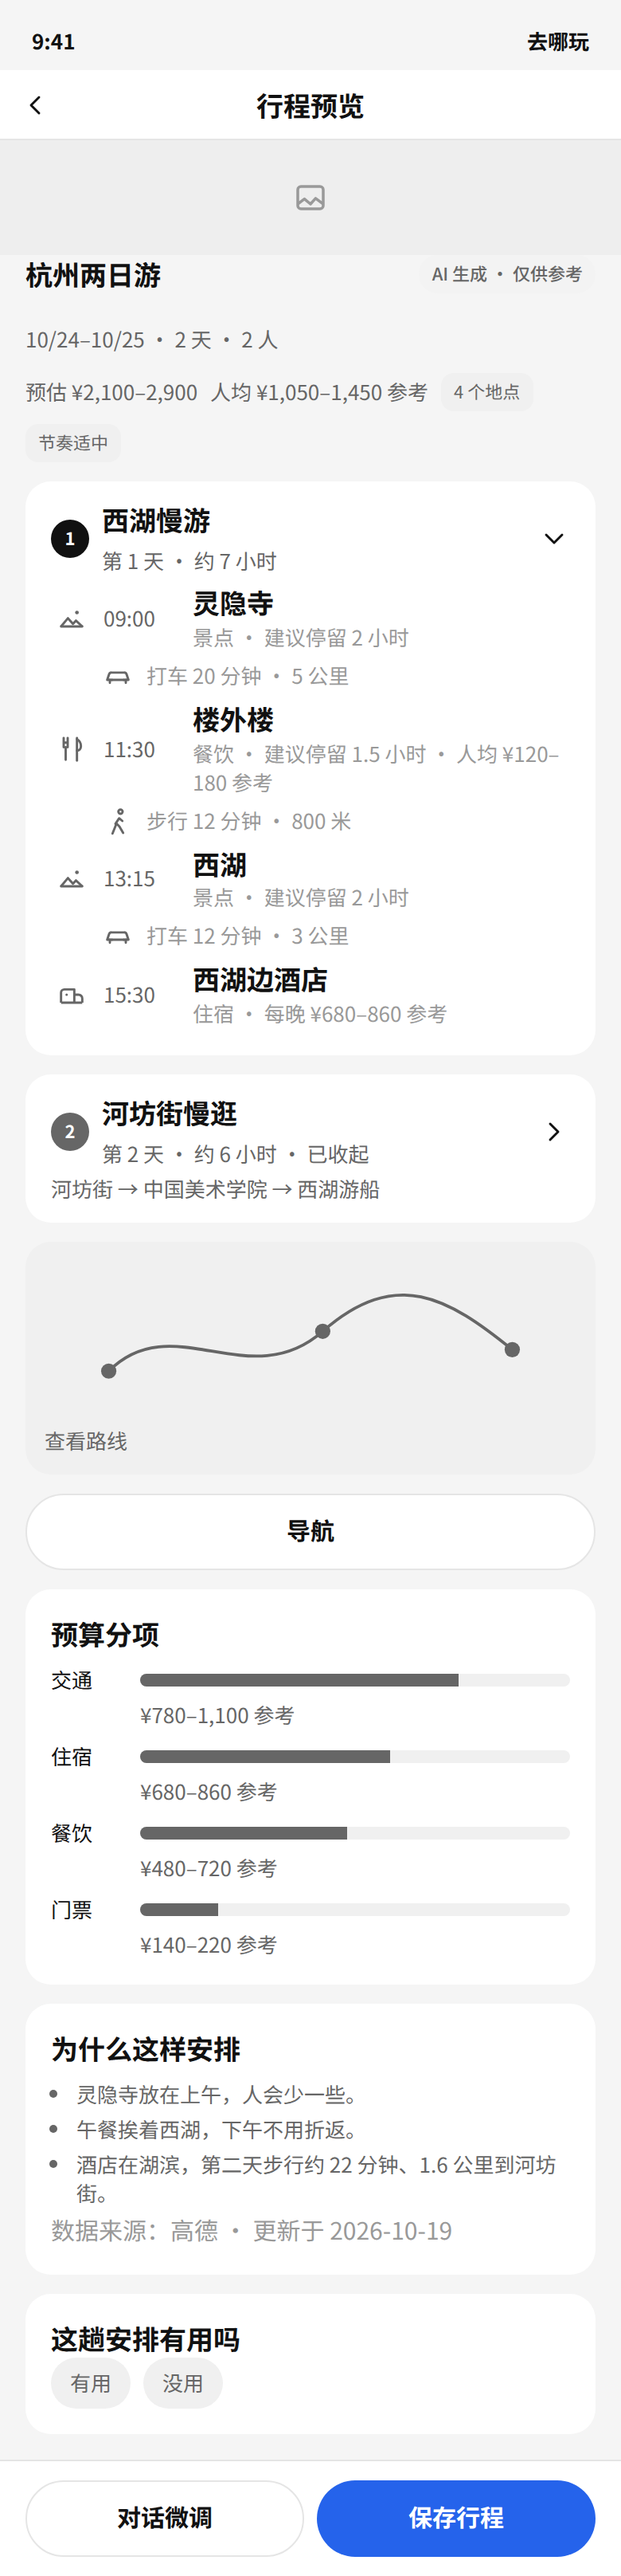
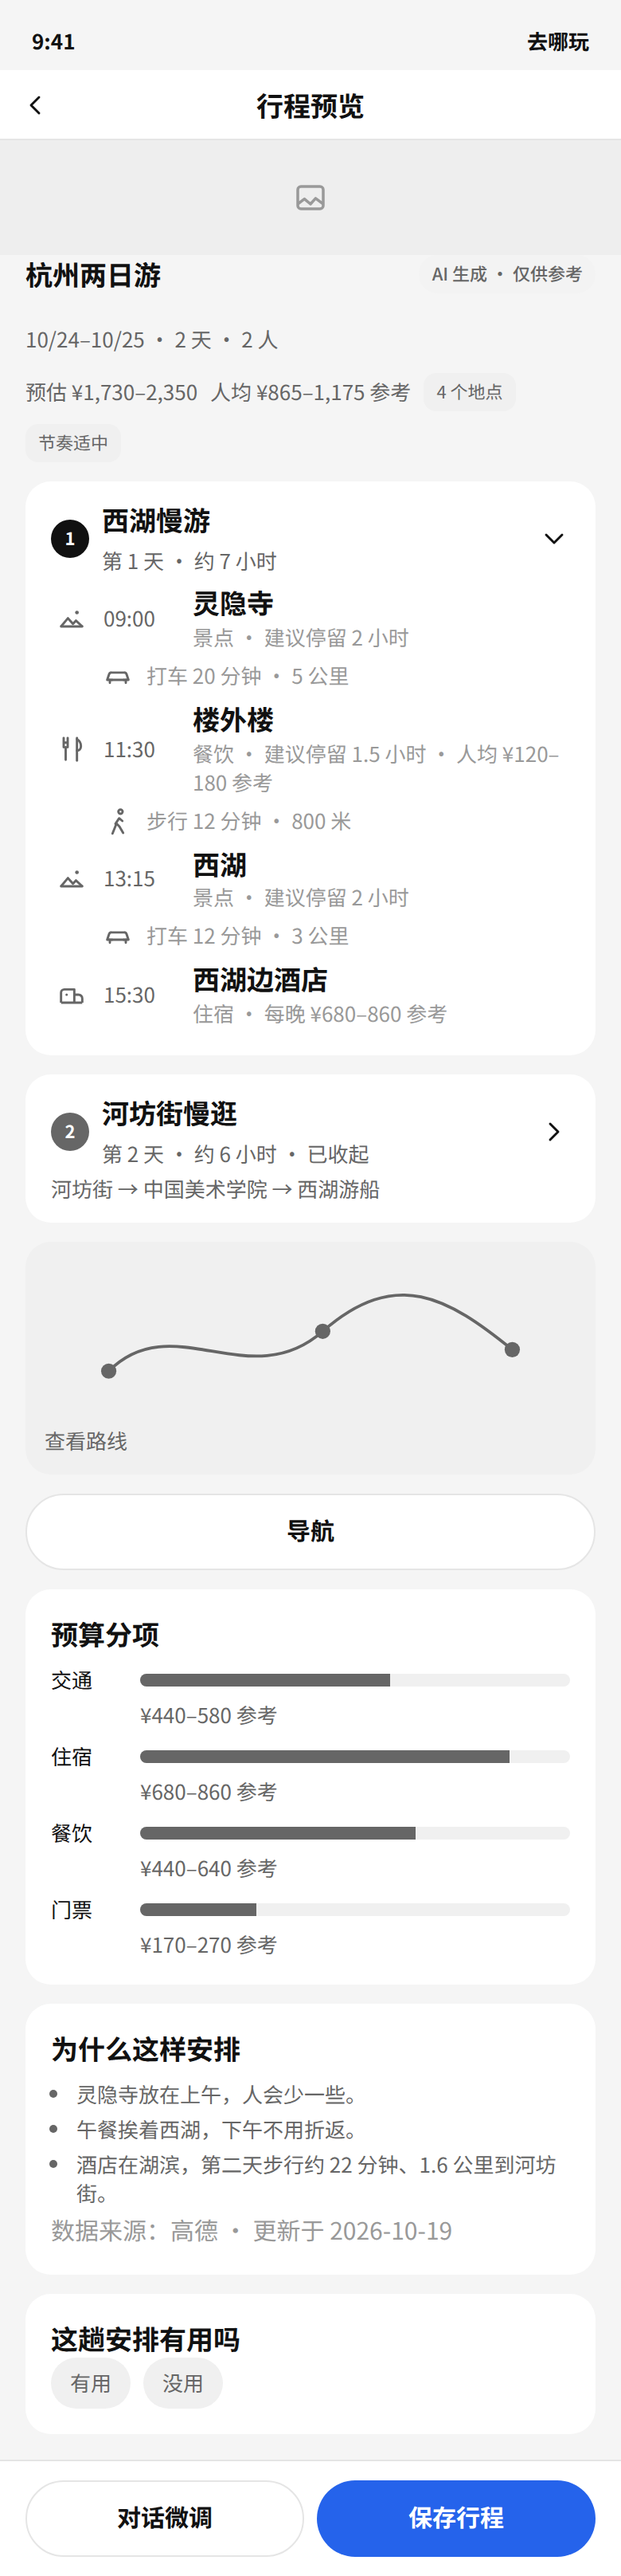
docs(design): align map routes and budget totals
Day lines now pass through their pins. Every budget figure comes
from the shared sample, and both the categories and the days plus
the train add up to the same total.

diff --git a/docs/travel-planner/design/prototype/sample-data.js b/docs/travel-planner/design/prototype/sample-data.js
@@ -5,18 +5,30 @@
    河坊街 → 中国美院南山约 1.5 公里；美院 → 湖滨码头约 2.5 公里。
    Day 1: 08:30 出发，+25 分到 09:00 灵隐（停 2 小时），
    +20 分到 11:30 楼外楼（停 1.5 小时），+12 分到 13:15 西湖（停 2 小时），
-   +12 分到 15:30 入住。 */
+   +12 分到 15:30 入住。
+   Budget for 2 people. 分项 and 按天 both equal the total:
+   交通 440–580 = 市内 160–220 + 往返高铁 280–360
+   住宿 680–860，餐饮 440–640，门票 170–270
+   合计 1,730–2,350；人均为一半，865–1,175
+   第 1 天 1,130–1,530 + 第 2 天 320–460 + 往返交通 280–360 = 合计 */
 (function () {
   var data = {
     "trip.title": "杭州两日游",
     "trip.when": "10/24–10/25 · 2 天 · 2 人",
-    "trip.budgetLine": "10/24–10/25 · 2 人 · 预算 ¥2,100–2,900 参考 · 多云 22°",
-    "budget.total": "预估 ¥2,100–2,900",
-    "budget.per": "人均 ¥1,050–1,450 参考",
-    "budget.traffic": "¥780–1,100 参考",
+    "trip.budgetLine": "10/24–10/25 · 2 人 · 预算 ¥1,730–2,350 参考 · 多云 22°",
+    "budget.home": "预算 ¥1,730–2,350 参考",
+    "budget.tripShort": "10/24–10/25 · 2 人 · 预算 ¥1,730–2,350 参考",
+    "budget.total": "预估 ¥1,730–2,350",
+    "budget.per": "人均 ¥865–1,175 参考",
+    "budget.traffic": "¥440–580 参考",
     "budget.stay": "¥680–860 参考",
-    "budget.food": "¥480–720 参考",
-    "budget.ticket": "¥140–220 参考",
+    "budget.food": "¥440–640 参考",
+    "budget.ticket": "¥170–270 参考",
+    "budget.day1": "第 1 天 · ¥1,130–1,530 参考",
+    "budget.day2": "第 2 天 · ¥320–460 参考",
+    "budget.rail": "往返交通 · ¥280–360 参考",
+    "budget.floor": "≥ ¥1,120",
+    "budget.floorPer": "人均至少 ¥560 参考 · 不含未知项",
     "source": "数据来源：高德 · 更新于 2026-10-19",
     "d1.hours": "第 1 天 · 约 7 小时",
     "d1.depart": "08:30",
@@ -32,7 +44,7 @@
     "d1.toHotel": "打车 12 分钟 · 3 公里",
     "d1.hotel": "15:30",
     "d1.hotelStay": "住宿 · 每晚 ¥680–860 参考",
-    "d1.dayCost": "今天市内约 15 公里 · 花费 ¥980–1,400 参考",
+    "d1.dayCost": "今天约 15 公里 · 花费 ¥1,130–1,530 参考",
     "home.nextLeg": "打车 25 分钟 · 7 公里 · 下一站灵隐寺",
     "pretrip.d1": "灵隐寺 · 楼外楼 · 西湖",
     "pretrip.d2": "河坊街 · 中国美术学院 · 西湖游船",

diff --git a/docs/travel-planner/design/prototype/pages/P09-a-budget.html b/docs/travel-planner/design/prototype/pages/P09-a-budget.html
@@ -18,20 +18,21 @@
   <span class="ai-badge">AI 生成 · 仅供参考</span>
   <section class="card">
     <p class="t-caption">2 人 · 2 天 · 舒适 · 含沪杭高铁</p>
-    <h1 class="t-title" data-qnw="budget.total">预估 ¥2,100–2,900</h1>
-    <p class="t-caption" data-qnw="budget.per">人均 ¥1,050–1,450 参考</p>
+    <h1 class="t-title" data-qnw="budget.total">预估 ¥1,730–2,350</h1>
+    <p class="t-caption" data-qnw="budget.per">人均 ¥865–1,175 参考</p>
   </section>
   <section class="card">
     <h2 class="t-headline">分项</h2>
-    <div class="budget-row"><span>交通</span><span class="bar"><i class="w-traffic"></i></span><b data-qnw="budget.traffic">¥780–1,100 参考</b></div>
+    <div class="budget-row"><span>交通</span><span class="bar"><i class="w-traffic"></i></span><b data-qnw="budget.traffic">¥440–580 参考</b></div>
     <div class="budget-row"><span>住宿</span><span class="bar"><i class="w-stay"></i></span><b data-qnw="budget.stay">¥680–860 参考</b></div>
-    <div class="budget-row"><span>餐饮</span><span class="bar"><i class="w-food"></i></span><b data-qnw="budget.food">¥480–720 参考</b></div>
-    <div class="budget-row"><span>门票</span><span class="bar"><i class="w-ticket"></i></span><b data-qnw="budget.ticket">¥140–220 参考</b></div>
+    <div class="budget-row"><span>餐饮</span><span class="bar"><i class="w-food"></i></span><b data-qnw="budget.food">¥440–640 参考</b></div>
+    <div class="budget-row"><span>门票</span><span class="bar"><i class="w-ticket"></i></span><b data-qnw="budget.ticket">¥170–270 参考</b></div>
   </section>
   <section class="card">
     <h2 class="t-headline">按天</h2>
-    <p class="t-caption">第 1 天 · 交通 + 午餐 + 门票 + 住宿 · ¥1,200–1,600 参考</p>
-    <p class="t-caption">第 2 天 · 市内交通 + 餐饮 + 游船 · ¥400–620 参考</p>
+    <p class="t-caption" data-qnw="budget.day1">第 1 天 · ¥1,130–1,530 参考</p>
+    <p class="t-caption" data-qnw="budget.day2">第 2 天 · ¥320–460 参考</p>
+    <p class="t-caption" data-qnw="budget.rail">往返交通 · ¥280–360 参考</p>
   </section>
   <p class="dim" data-qnw="source">数据来源：高德 · 更新于 2026-10-19</p>
 </div>

diff --git a/docs/travel-planner/design/prototype/pages/P04-a-preview.html b/docs/travel-planner/design/prototype/pages/P04-a-preview.html
@@ -23,8 +23,8 @@
   </div>
   <p class="t-caption">10/24–10/25 · 2 天 · 2 人</p>
   <div class="summary-strip">
-    <span class="t-caption" data-qnw="budget.total">预估 ¥2,100–2,900</span>
-    <span class="t-caption" data-qnw="budget.per">人均 ¥1,050–1,450 参考</span>
+    <span class="t-caption" data-qnw="budget.total">预估 ¥1,730–2,350</span>
+    <span class="t-caption" data-qnw="budget.per">人均 ¥865–1,175 参考</span>
     <span class="tag">4 个地点</span>
     <span class="tag">节奏适中</span>
   </div>
@@ -100,10 +100,10 @@
 
   <section class="card">
     <h2 class="t-headline"><a href="P09-a-budget.html">预算分项</a></h2>
-    <div class="budget-row"><span>交通</span><span class="bar"><i class="w-traffic"></i></span><b data-qnw="budget.traffic">¥780–1,100 参考</b></div>
+    <div class="budget-row"><span>交通</span><span class="bar"><i class="w-traffic"></i></span><b data-qnw="budget.traffic">¥440–580 参考</b></div>
     <div class="budget-row"><span>住宿</span><span class="bar"><i class="w-stay"></i></span><b data-qnw="budget.stay">¥680–860 参考</b></div>
-    <div class="budget-row"><span>餐饮</span><span class="bar"><i class="w-food"></i></span><b data-qnw="budget.food">¥480–720 参考</b></div>
-    <div class="budget-row"><span>门票</span><span class="bar"><i class="w-ticket"></i></span><b data-qnw="budget.ticket">¥140–220 参考</b></div>
+    <div class="budget-row"><span>餐饮</span><span class="bar"><i class="w-food"></i></span><b data-qnw="budget.food">¥440–640 参考</b></div>
+    <div class="budget-row"><span>门票</span><span class="bar"><i class="w-ticket"></i></span><b data-qnw="budget.ticket">¥170–270 参考</b></div>
   </section>
 
   <section class="card">

diff --git a/docs/travel-planner/design/prototype/pages/P05-a-detail-ongoing.html b/docs/travel-planner/design/prototype/pages/P05-a-detail-ongoing.html
@@ -16,7 +16,7 @@
 <div class="sysbar"><span>9:41</span><span>去哪玩</span></div>
 <header class="navbar"><a class="navbar-back" href="P04-a-preview.html" aria-label="返回"><svg class="icon" aria-hidden="true"><use href="#i-back"/></svg></a><div class="navbar-title">杭州两日游</div><span class="navbar-action">分享</span></header>
 <div class="screen-body">
-  <p class="t-caption" data-qnw="trip.budgetLine">10/24–10/25 · 2 人 · 预算 ¥2,100–2,900 参考 · 多云 22°</p>
+  <p class="t-caption" data-qnw="trip.budgetLine">10/24–10/25 · 2 人 · 预算 ¥1,730–2,350 参考 · 多云 22°</p>
   <div class="daytabs">
     <a class="daytab is-on" href="P05-a-detail-ongoing.html"><span class="day-mark" data-day="1">1</span><span>10/24 周六<small>今天</small></span></a>
     <a class="daytab" href="P05-b-detail-empty.html"><span class="day-mark" data-day="2">2</span><span>10/25 周日<small>河坊街</small></span></a>
@@ -65,7 +65,7 @@
       <div class="itinerary-meta" data-qnw="d1.hotelStay">住宿 · 每晚 ¥680–860 参考</div>
     </div>
   </article>
-  <p class="t-caption" data-qnw="d1.dayCost">今天市内约 15 公里 · 花费 ¥980–1,400 参考</p>
+  <p class="t-caption" data-qnw="d1.dayCost">今天约 15 公里 · 花费 ¥1,130–1,530 参考</p>
 </div>
 <div class="dock">
   <a class="btn btn-secondary" href="P04-b-diff.html">问 AI</a>

diff --git a/docs/travel-planner/design/prototype/pages/P09-b-budget-unknown.html b/docs/travel-planner/design/prototype/pages/P09-b-budget-unknown.html
@@ -23,10 +23,10 @@
       <p>游船和一顿晚餐还没有公开价格，总额是下限。</p>
     </div>
   </div>
-  <h1 class="t-title">≥ ¥1,800</h1>
-  <p class="t-caption">人均至少 ¥900 参考 · 不含未知项</p>
+  <h1 class="t-title" data-qnw="budget.floor">≥ ¥1,120</h1>
+  <p class="t-caption" data-qnw="budget.floorPer">人均至少 ¥560 参考 · 不含未知项</p>
   <section class="card">
-    <div class="budget-row"><span>交通</span><span class="bar"><i class="w-traffic"></i></span><b data-qnw="budget.traffic">¥780–1,100 参考</b></div>
+    <div class="budget-row"><span>交通</span><span class="bar"><i class="w-traffic"></i></span><b data-qnw="budget.traffic">¥440–580 参考</b></div>
     <div class="budget-row"><span>住宿</span><span class="bar"><i class="w-stay"></i></span><b data-qnw="budget.stay">¥680–860 参考</b></div>
     <div class="budget-row"><span>游船</span><span class="bar"><i class="w-ticket"></i></span><b>价格未知</b></div>
     <div class="budget-row"><span>晚餐</span><span class="bar"><i class="w-ticket"></i></span><b>价格未知</b></div>

diff --git a/docs/travel-planner/design/prototype/components.css b/docs/travel-planner/design/prototype/components.css
@@ -1667,6 +1667,8 @@ button {
 }
 
 .map-routes {
+  position: absolute;
+  inset: 0;
   width: 100%;
   height: 100%;
 }
@@ -1674,10 +1676,14 @@ button {
 .route-d1 { color: var(--day-1); }
 .route-d2 { color: var(--day-2); }
 
-.map-routes path {
+.map-routes path,
+.map-routes polyline {
   fill: none;
   stroke: currentColor;
   stroke-width: 3;
+  stroke-linecap: round;
+  stroke-linejoin: round;
+  vector-effect: non-scaling-stroke;
 }
 
 .pin {
@@ -1685,6 +1691,7 @@ button {
   display: grid;
   width: var(--space-24);
   height: var(--space-24);
+  transform: translate(-50%, -50%);
   place-items: center;
   border: var(--hairline) solid var(--border-strong);
   border-radius: var(--radius-full);
@@ -1731,7 +1738,7 @@ button {
   border-radius: var(--radius-24) var(--radius-24) 0 0;
 }
 
-.bar .w-traffic { width: 74%; }
-.bar .w-stay { width: 58%; }
-.bar .w-food { width: 48%; }
-.bar .w-ticket { width: 18%; }
+.bar .w-traffic { width: 58%; }
+.bar .w-stay { width: 86%; }
+.bar .w-food { width: 64%; }
+.bar .w-ticket { width: 27%; }

diff --git a/docs/travel-planner/design/prototype/pages/P05-b-detail-empty.html b/docs/travel-planner/design/prototype/pages/P05-b-detail-empty.html
@@ -16,7 +16,7 @@
 <div class="sysbar"><span>9:41</span><span>去哪玩</span></div>
 <header class="navbar"><a class="navbar-back" href="P05-a-detail-ongoing.html" aria-label="返回"><svg class="icon" aria-hidden="true"><use href="#i-back"/></svg></a><div class="navbar-title">杭州两日游</div><span class="navbar-action">分享</span></header>
 <div class="screen-body">
-  <p class="t-caption">10/24–10/25 · 2 人 · 预算 ¥2,100–2,900 参考</p>
+  <p class="t-caption" data-qnw="budget.tripShort">10/24–10/25 · 2 人 · 预算 ¥1,730–2,350 参考</p>
   <div class="daytabs">
     <a class="daytab" href="P05-a-detail-ongoing.html"><span class="day-mark" data-day="1">1</span><span>10/24 周六<small>西湖慢游</small></span></a>
     <a class="daytab is-on" href="P05-b-detail-empty.html"><span class="day-mark" data-day="2">2</span><span>10/25 周日<small>未安排</small></span></a>

diff --git a/docs/travel-planner/design/prototype/pages/P07-a-map.html b/docs/travel-planner/design/prototype/pages/P07-a-map.html
@@ -22,9 +22,9 @@
   </div>
 </div>
 <div class="map-canvas" role="img" aria-label="路线占位，灰阶连线">
-  <svg class="map-routes" viewBox="0 0 320 360" aria-hidden="true">
-    <path class="route-d1" d="M78 70 C 110 120, 150 150, 168 190 S 150 250, 140 290"/>
-    <path class="route-d2" d="M210 300 C 240 270, 250 240, 230 210"/>
+  <svg class="map-routes" viewBox="0 0 100 100" preserveAspectRatio="none" aria-hidden="true">
+    <polyline class="route-d1" points="18,14 46,42 38,62 36,78"/>
+    <polyline class="route-d2" points="62,80 66,54 78,22"/>
   </svg>
   <span class="pin is-selected" style="left:18%;top:14%">1</span>
   <span class="pin" style="left:46%;top:42%">2</span>

diff --git a/docs/travel-planner/design/prototype/pages/P02-d-home-pretrip.html b/docs/travel-planner/design/prototype/pages/P02-d-home-pretrip.html
@@ -24,6 +24,7 @@
     <p class="count-num">3 天</p>
     <h2 class="t-headline">杭州两日游</h2>
     <p class="t-caption">10/24–10/25 · 2 人 · 舒适</p>
+    <p class="t-caption" data-qnw="budget.home">预算 ¥1,730–2,350 参考</p>
     <div class="dayline"><span class="day-mark" data-day="1">1</span><span data-qnw="pretrip.d1">灵隐寺 · 楼外楼 · 西湖</span></div>
     <div class="dayline"><span class="day-mark" data-day="2">2</span><span data-qnw="pretrip.d2">河坊街 · 中国美术学院 · 西湖游船</span></div>
     <div class="actions">

diff --git a/docs/travel-planner/design/prototype/pages/P06-e-edit-recalc-done.html b/docs/travel-planner/design/prototype/pages/P06-e-edit-recalc-done.html
@@ -38,7 +38,7 @@
   <div class="toast" role="status">
     <span>时间与预算已更新</span>
   </div>
-  <p class="t-caption" data-qnw="d1.dayCost">今天市内约 15 公里 · 花费 ¥980–1,400 参考</p>
+  <p class="t-caption" data-qnw="d1.dayCost">今天约 15 公里 · 花费 ¥1,130–1,530 参考</p>
 </div>
 <div class="dock">
   <a class="btn btn-text" href="P06-a-edit-drag.html">撤销</a>
